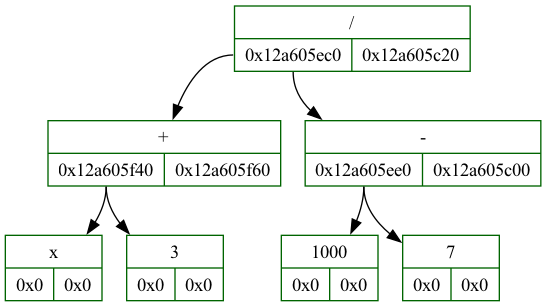
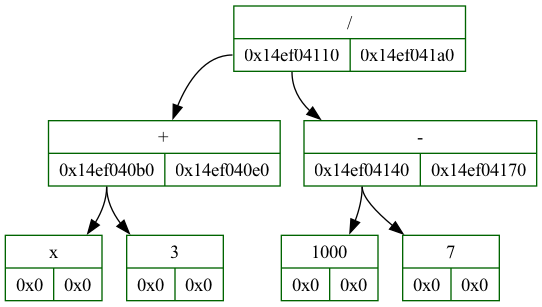
nodevalue as union

diff --git a/log/dump.html b/log/dump.html
@@ -3,8 +3,8 @@
 	ERROR: NO_ERROR
 	Dump called from src/main.cpp:main:24
 	Tree tree born in src/main.cpp:main:17
-	Binary Expression Tree[0x12a605d70]{
-		root = 0x12a605c40
+	Binary Expression Tree[0x14ef04080]{
+		root = 0x14ef041d0
 		nodes_amount = 7
 		 <img src = 0.png width = 50%>
 

diff --git a/src/bin_exp_tree.cpp b/src/bin_exp_tree.cpp
@@ -1,5 +1,6 @@
 #include <stdio.h>
 #include <stdlib.h>
+#include <stdarg.h>
 #include <assert.h>
 
 #include "../include/bin_exp_tree.h"
@@ -18,15 +19,31 @@ int binExpTreeCtor(BinExpTree** tree INIT_ARGS_BET){
     return NO_ERROR;
 }
 
-Node* createNode(int data_type, int data_value, Node* left, Node* right){
+Node* createNode(Node* left, Node* right, int data_type, ...){
+    va_list args;
+    va_start(args, data_type);
+
+    NodeValue data_value = {};
     Node* new_node = (Node*)calloc(1, sizeof(Node));
 
     new_node->left      = left;
     new_node->right     = right;
     new_node->parent    = NULL;
+    new_node->type      = (DataType)data_type;
 
-    new_node->type      = data_type;
-    new_node->value     = data_value;
+    if (data_type == NUM){
+        data_value.number       = va_arg(args, double);
+        new_node->value.number  = data_value.number;
+    }
+    if (data_type == VAR){
+        data_value.variable         = va_arg(args, int);
+        new_node->value.variable    = data_value.variable;
+    }
+    if (data_type == OPER){
+        data_value.operation_type       = (Operations)va_arg(args, int);
+        new_node->value.operation_type  = data_value.operation_type;
+    }
+    va_end(args);
 
     return new_node;
 }

diff --git a/src/main.cpp b/src/main.cpp
@@ -3,20 +3,20 @@
 #include "../include/bin_exp_tree.h"
 #include "../include/dump_bet.h"
 
-#define _ADD(left, right)   createNode(OPER, ADD, left, right)
-#define _SUB(left, right)   createNode(OPER, SUB, left, right)
-#define _DIV(left, right)   createNode(OPER, DIV, left, right)
-#define _MULT(left, right)  createNode(OPER, MULT, left, right)
+#define _ADD(left, right)   createNode(left, right, OPER, ADD)
+#define _SUB(left, right)   createNode(left, right, OPER, SUB)
+#define _DIV(left, right)   createNode(left, right, OPER, DIV)
+#define _MULT(left, right)  createNode(left, right, OPER, MULT)
 
-#define _NUM(value)         createNode(NUM, value, NULL, NULL)
+#define _NUM(value)         createNode(NULL, NULL, NUM, value)
 
-#define _X                  createNode(VAR, 0, NULL, NULL)
+#define _X                  createNode(NULL, NULL, VAR, 0)
 
 int main(){
     BinExpTree* tree = NULL;
     binExpTreeCtor(&tree INIT_BET(tree));
 
-    tree->root = _DIV(_ADD(_X, _NUM(3)), _SUB(_NUM(1000), _NUM(7)));
+    tree->root = _DIV(_ADD(_X, _NUM(3.0)), _SUB(_NUM(1000.0), _NUM(7.0)));
     int nodes_amount = 0;
     countNodes(tree->root, &nodes_amount);
     tree->nodes_amount = nodes_amount;

diff --git a/include/bin_exp_tree.h b/include/bin_exp_tree.h
@@ -6,9 +6,29 @@
 #define INIT_DEBUG_VARS_BET(binExpTree) (*binExpTree)->name = name; (*binExpTree)->filename = filename; (*binExpTree)->funcname = funcname; (*binExpTree)->line = line;
 #define DUMP_BET(binExpTree) binExpTree, __FILE__, __func__, __LINE__
 
+enum DataType{
+    OPER,
+    VAR,
+    NUM,
+};
+
+enum Operations{
+    ADD,
+    SUB,
+    MULT,
+    DIV,
+};
+
+union NodeValue
+{
+    char variable;
+    double number;
+    Operations operation_type;
+};
+
 struct Node{
-    int type;
-    int value;
+    DataType type;
+    NodeValue value;
 
     Node* left;
     Node* right;
@@ -33,21 +53,8 @@ enum ErrorsBinExpTree{
     CYCLE_IN_TREE,
 };
 
-enum DataType{
-    OPER,
-    VAR,
-    NUM,
-};
-
-enum Operations{
-    ADD,
-    SUB,
-    MULT,
-    DIV,
-};
-
 int binExpTreeCtor(BinExpTree** tree INIT_ARGS_BET);
-Node* createNode(int data_type, int data_value, Node* left, Node* right);
+Node* createNode(Node* left, Node* right, int data_type, ...);
 int countNodes(Node* node, int* amount);
 int binExpTreeDtor(BinExpTree** tree);
 

diff --git a/src/dump_bet.cpp b/src/dump_bet.cpp
@@ -120,7 +120,7 @@ static int printLabel(FILE* dump_dot, Node* node){
             break;
         }
         case(NUM):{
-            fprintf(dump_dot, "label = \"{%d ", node->value); break;
+            fprintf(dump_dot, "label = \"{%lg ", node->value.number); break;
         }
     }
 
@@ -128,7 +128,7 @@ static int printLabel(FILE* dump_dot, Node* node){
 }
 
 static int printOperLabel(FILE* dump_dot, Node* node){
-    switch(node->value){
+    switch(node->value.operation_type){
         case(ADD):{
             fprintf(dump_dot, "label = \"{ + "); break;
         }
@@ -147,7 +147,7 @@ static int printOperLabel(FILE* dump_dot, Node* node){
 }
 
 static int printVarLabel(FILE* dump_dot, Node* node){
-    if (node->value == 0){
+    if (node->value.number == 0){
         fprintf(dump_dot, "label = \"{ x ");
     }
 
